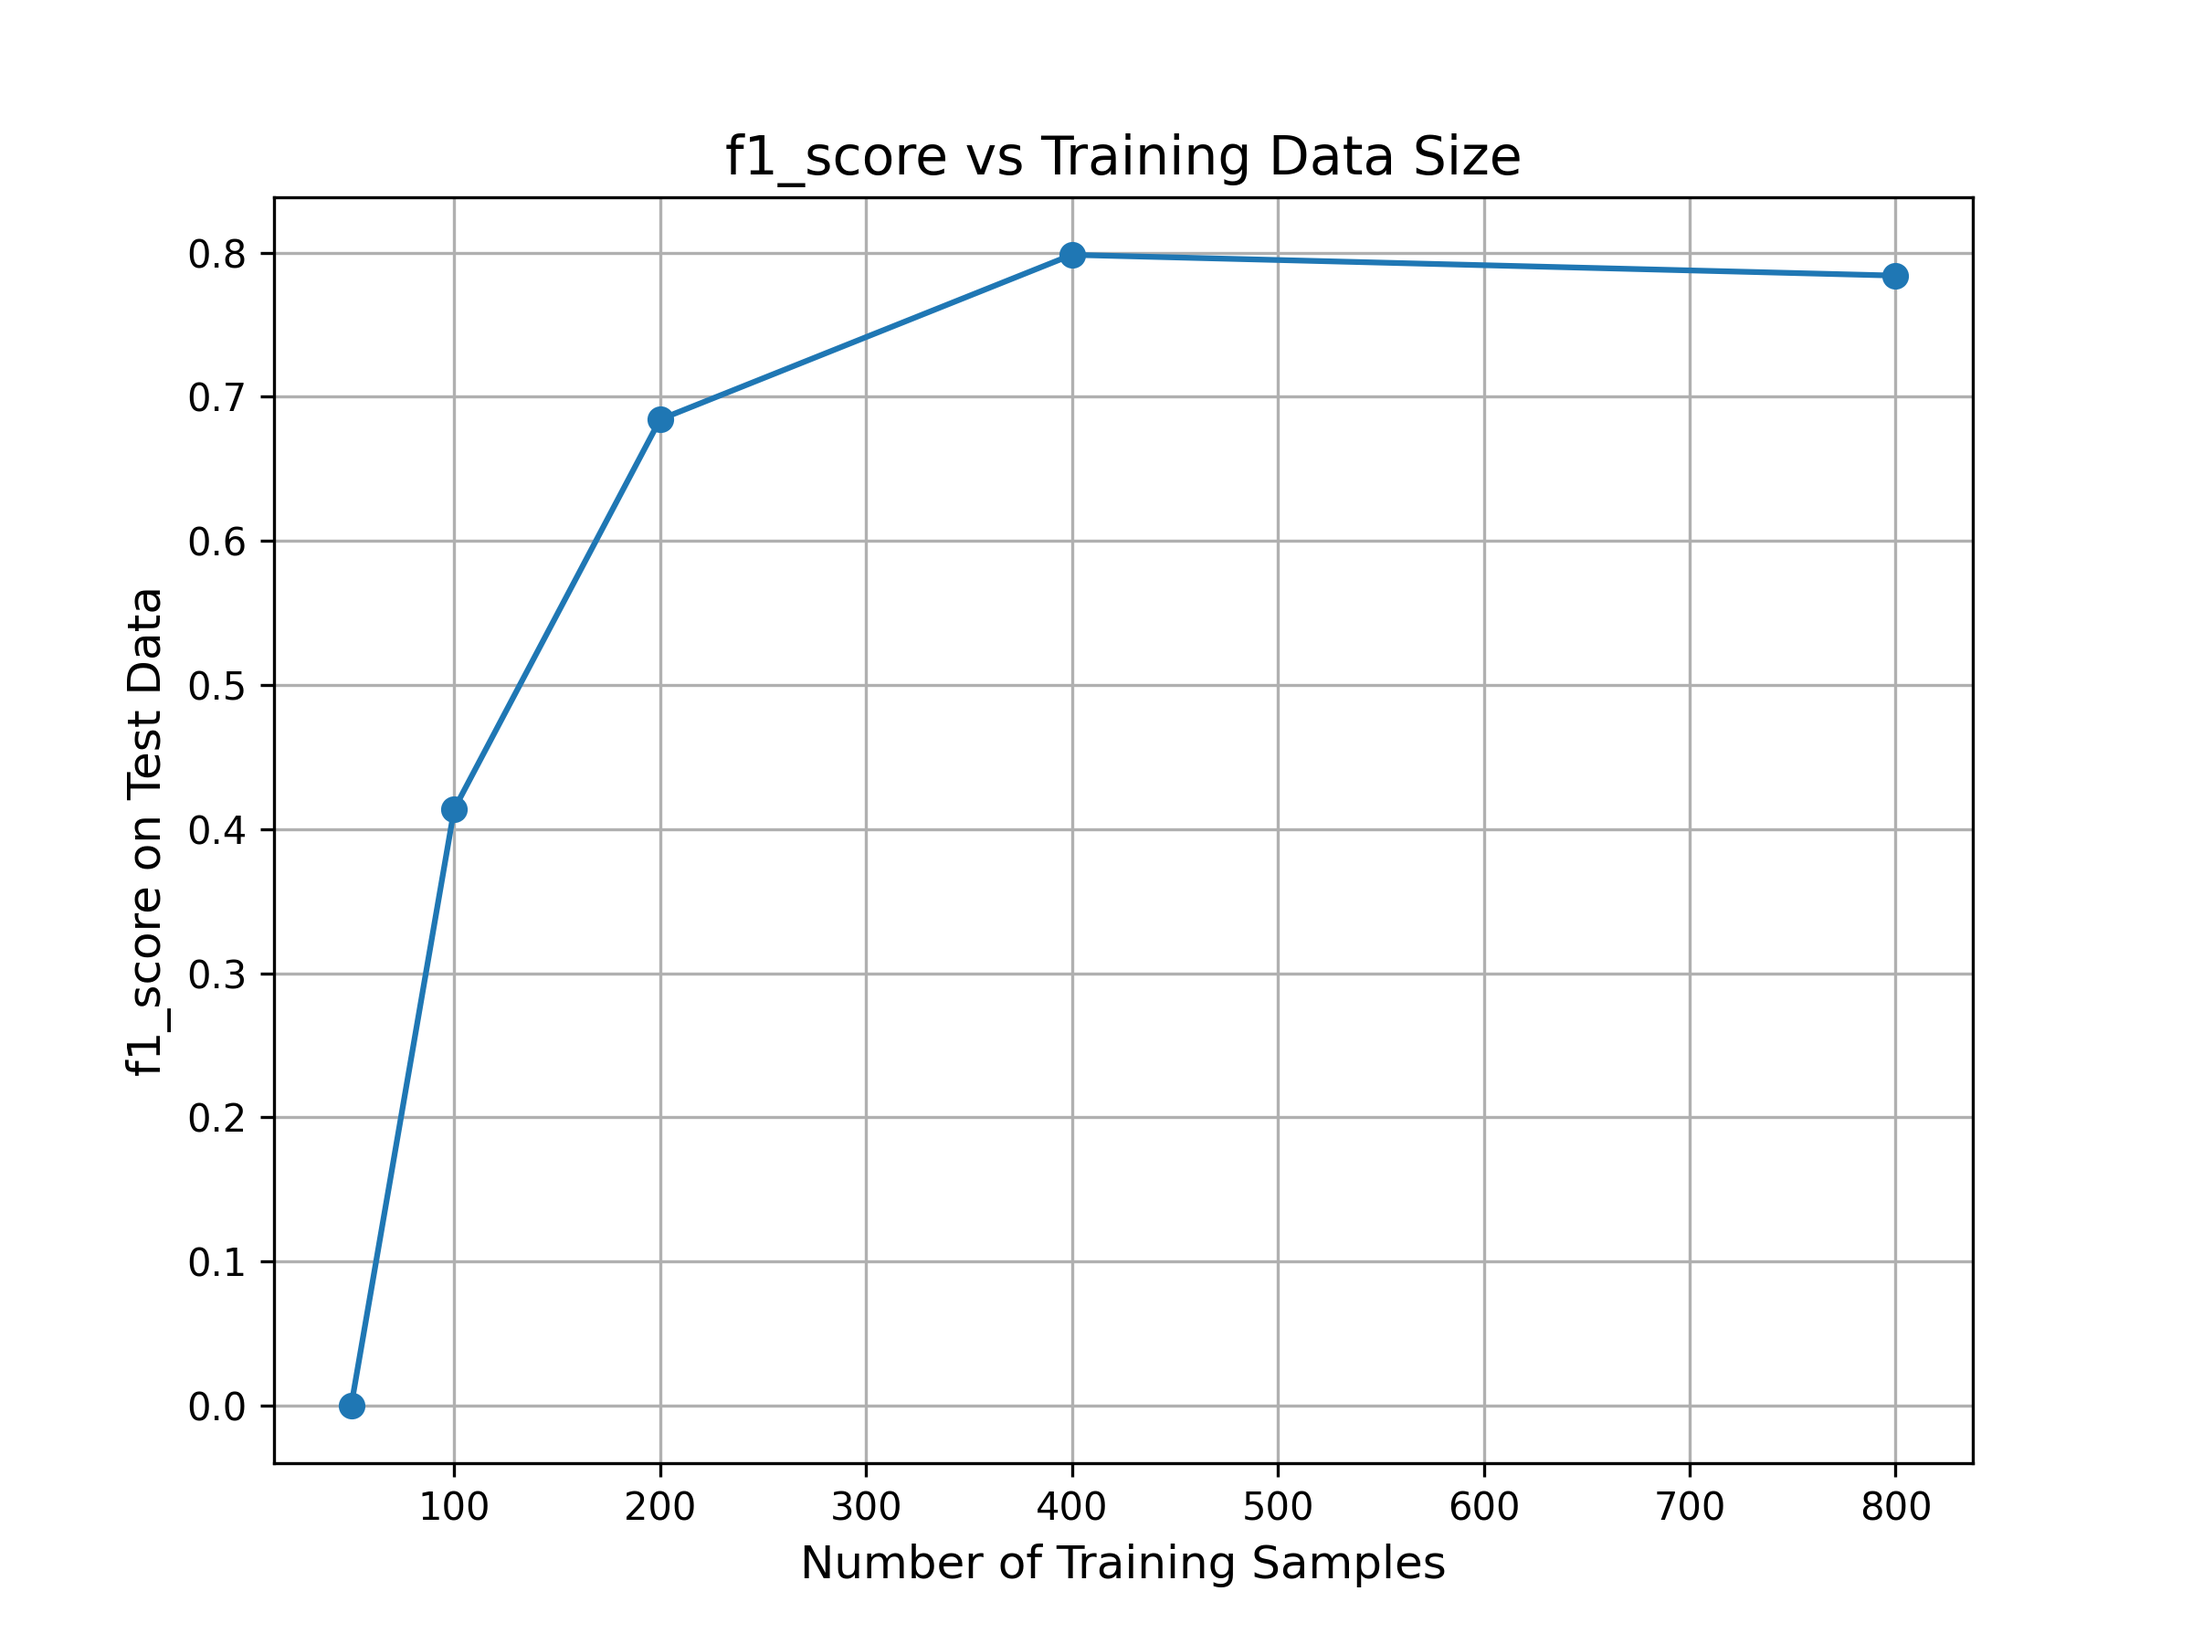
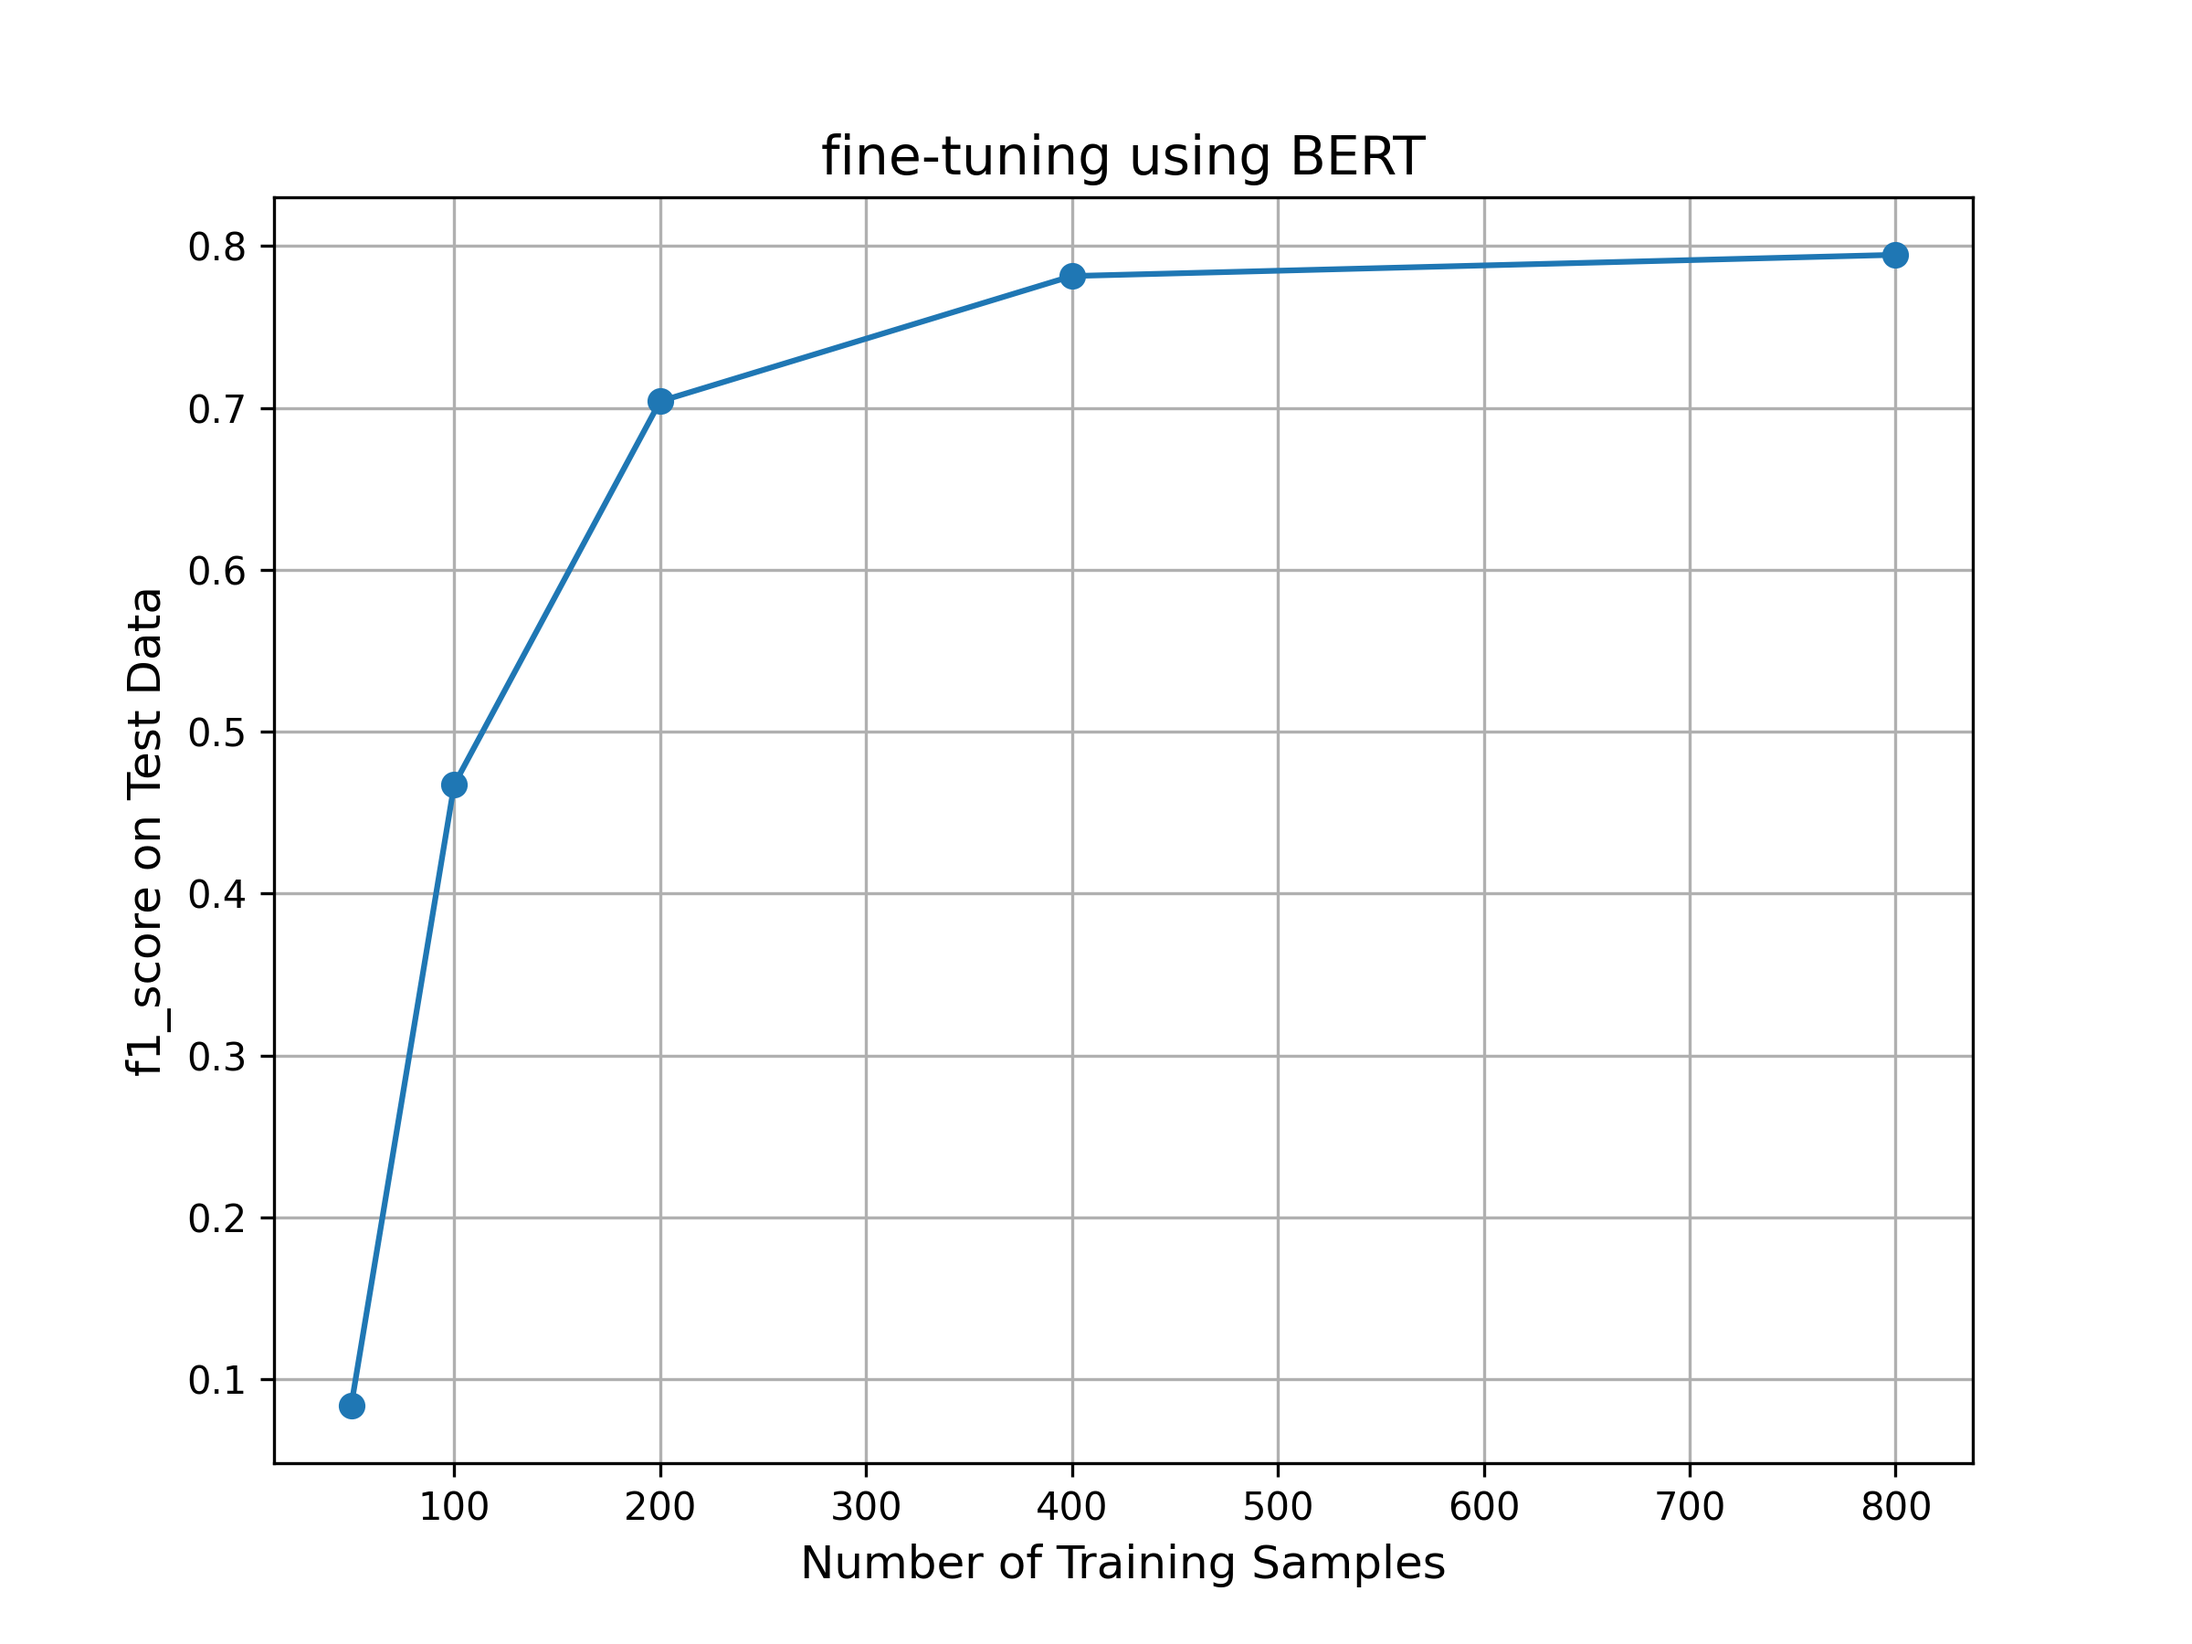
train_roop

diff --git a/allenNLP/train_roop.py b/allenNLP/train_roop.py
@@ -1,0 +1,61 @@
+import subprocess
+import argparse
+import pdb
+import os
+import json
+import matplotlib.pyplot as plt
+
+def make_graph(train_sizes, f1_scores):
+    plt.figure(figsize=(8, 6))
+    plt.plot(train_sizes, f1_scores, marker='o')
+    plt.xlabel('Number of Training Samples', fontsize=12)
+    plt.ylabel('f1_score on Test Data', fontsize=12)
+    plt.title('scratch training using allenNLP', fontsize=14)
+    plt.grid()
+
+    # ファイル名を指定して保存
+    plt.savefig("visualize/img/f1_score", dpi=300)
+    plt.show()
+
+def get_f1score(json_dir):
+    # F1_scoresリストを初期化
+    f1_scores = []
+
+    # ディレクトリ内のすべてのファイルをループ処理
+    for filename in os.listdir(json_dir):
+        # JSONファイルのみを対象
+        if filename.endswith(".json"):
+            filepath = os.path.join(json_dir, filename)
+            
+            # JSONファイルを読み込み
+            with open(filepath, "r") as file:
+                data = json.load(file)
+                
+                # F1scoreを取得してリストに追加
+                if "F1score" in data:
+                    f1_scores.append(data["F1score"])
+    return f1_scores
+
+def train(data, task, num):
+    # トレーニングコマンドの実行
+    train_command = f"allennlp train --serialization-dir exp/{data}/exp-{data}-{task}-{num} --recover --include-package src.model --include-package src.dataset_reader --include-package src.tokenizer jsons/{data}/{data}-{task}-{num}.jsonnet"
+    subprocess.run(train_command, shell=True, check=True)
+
+    # 性能の評価
+    eval_command = f"allennlp evaluate --output-file visualize/jsons/train-{num}.json --include-package src.model --include-package src.dataset_reader --include-package src.tokenizer exp/{data}/exp-{data}-{task}-{num}/model.tar.gz data/{data}/{data}-test.jsonl"
+    subprocess.run(eval_command, shell=True, check=True)
+
+def main():
+    parser = argparse.ArgumentParser()
+    parser.add_argument("--data_name", type=str, default="kaggle_multi_label_classify", choices=["livedoor_news", "kaggle_multi_label_classify"], help="dataset name")
+    parser.add_argument("--task_name", type=str, default="multi_label_classify", choices=["classify", "classify_topk", "multi_label_classify"], help="task name")
+    args = parser.parse_args()
+
+    nums = [50, 100, 200, 400, 800]
+    # for num in nums:
+    #     train(args.data_name, args.task_name, num)
+    f1_scores = get_f1score("visualize/jsons")
+    make_graph(nums, f1_scores)
+
+if __name__=="__main__":
+    main()

diff --git a/allenNLP/train.py b/allenNLP/train.py
@@ -3,12 +3,8 @@ import argparse
 
 def train(data, task):
     # トレーニングコマンドの実行
-    train_command = f"allennlp train --serialization-dir exp/{data}/exp-{data}-{task} --include-package src.model --include-package src.dataset_reader --include-package src.tokenizer jsons/{data}/{data}-{task}.jsonnet"
+    train_command = f"allennlp train --serialization-dir exp/{data}/exp-{data}-{task} --force --include-package src.model --include-package src.dataset_reader --include-package src.tokenizer jsons/{data}/{data}-{task}.jsonnet"
     subprocess.run(train_command, shell=True, check=True)
-
-    # トレーニング後にモデルファイルの内容を確認
-    tar_command = f"tar tf exp/{data}/exp-{data}-{task}/model.tar.gz"
-    subprocess.run(tar_command, shell=True, check=True)
 
     # 性能の評価
     eval_command = f"allennlp evaluate --include-package src.model --include-package src.dataset_reader --include-package src.tokenizer exp/{data}/exp-{data}-{task}/model.tar.gz data/{data}/{data}-test.jsonl"

diff --git a/transformers/train_roop.py b/transformers/train_roop.py
@@ -14,7 +14,7 @@ def make_graph(train_sizes, f1_scores):
     plt.plot(train_sizes, f1_scores, marker='o')
     plt.xlabel('Number of Training Samples', fontsize=12)
     plt.ylabel('f1_score on Test Data', fontsize=12)
-    plt.title('f1_score vs Training Data Size', fontsize=14)
+    plt.title('fine-tuning using BERT', fontsize=14)
     plt.grid()
 
     # ファイル名を指定して保存
@@ -29,8 +29,6 @@ def main():
         df_validation = pd.read_csv("./data/kaggle_multi_label_classify/csv/validation.csv")
         df_test = pd.read_csv("./data/kaggle_multi_label_classify/csv/test.csv")
         df_train = df_train.head(train_size)
-        df_validation = df_validation.head(100)
-        df_test = df_test.head(100)
 
         df_train["labels"] = df_train[df_train.columns[2:]].values.tolist()
         df_validation["labels"] = df_validation[df_validation.columns[2:]].values.tolist()
